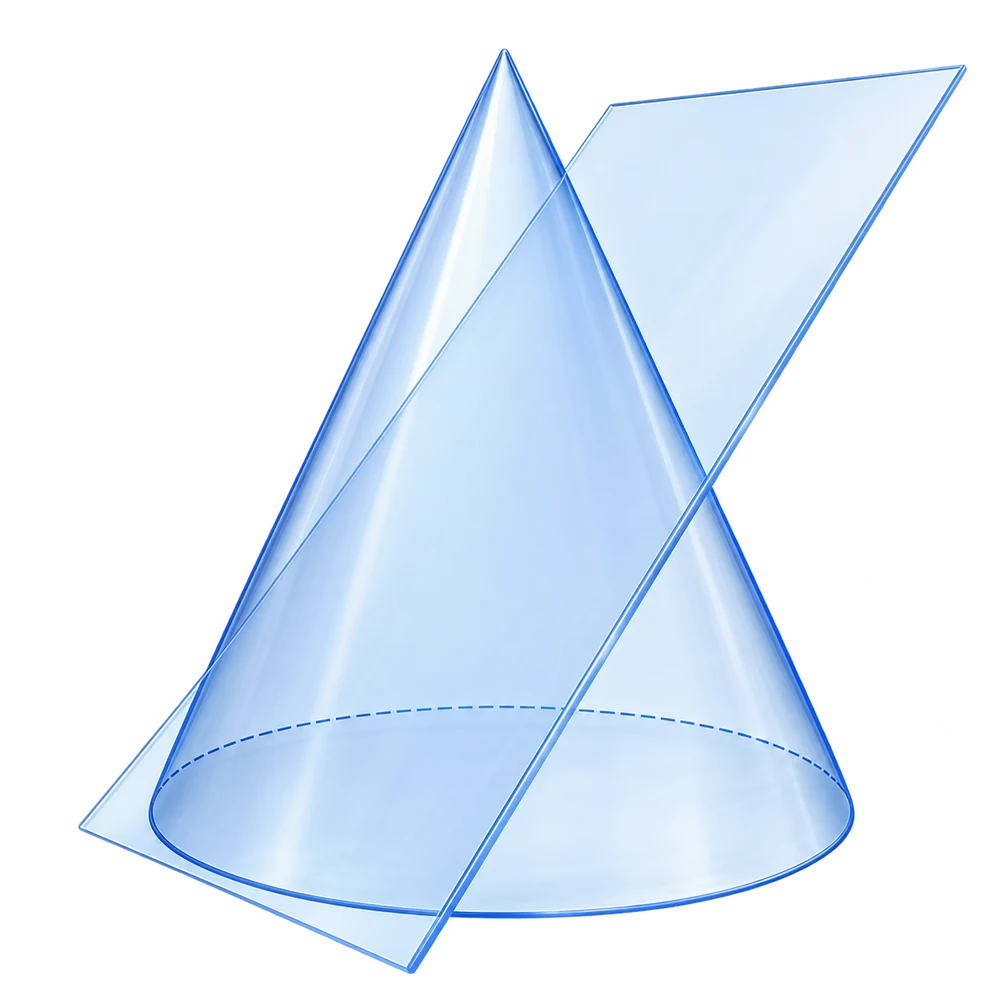
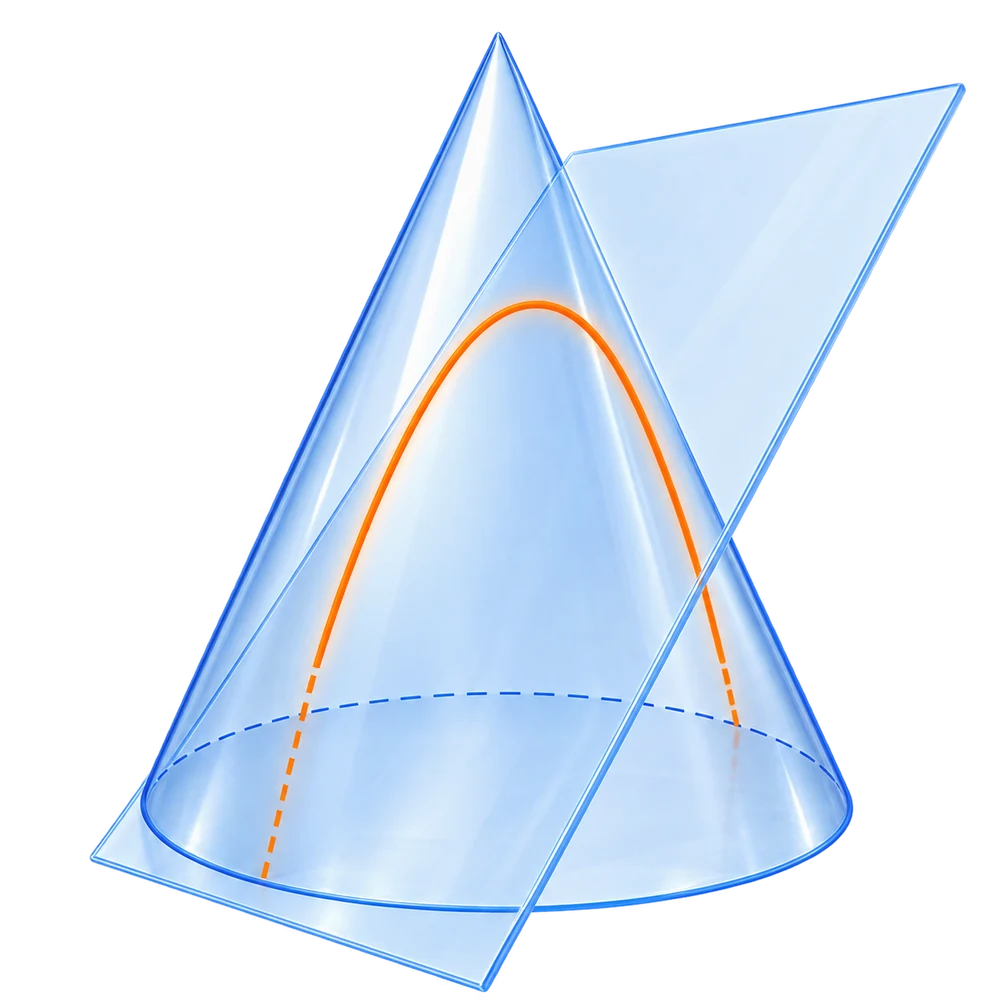
Баннер «Немного истории»: кривая на самой картинке (итог ff6b392a и 8c5757d2 из #76)
Claude-Session: https://claude.ai/code/session_01U7HawzRhaDqmctvxJSDC3E

Changed region(s): [[0.062, 0.031, 0.992, 0.992], [0.837, 0.775, 0.868, 0.837]]

diff --git a/app/src/components/tasks/theory/quadratic/IstoriyaBanner.tsx b/app/src/components/tasks/theory/quadratic/IstoriyaBanner.tsx
@@ -9,31 +9,21 @@ import { katex } from '@/lib/graph/katex';
  * конус, рассечённый плоскостью. Оба портрета повёрнуты к центру —
  * поэтому местами их менять нельзя, зеркалить тоже.
  *
- * Кривой сечения на картинке нет намеренно: её рисует SVG поверх
- * картинки, чтобы геометрия была верной. Подписи от руки — текст
- * рукописным шрифтом, а не картинка.
+ * Конус с секущей плоскостью и параболой сечения — картинка: кривая
+ * нарисована на ней самой, поверх неё ничего не рисуется. Подписи от
+ * руки — текст рукописным шрифтом, а не картинка.
  */
 
-/* Сечение конуса плоскостью, параллельной образующей, — парабола.
-   Координаты в системе самой картинки (1254 × 1254): плоскость взята
-   та же, что нарисована, и подогнана по двум её приметам — точке, где
-   она режет правую образующую у вершины, и точке, где выходит через
-   основание. Проекция параболы — снова парабола, поэтому каждый кусок
-   дуги точно ложится на квадратичную кривую Безье; расхождение
-   с настоящим сечением меньше двух единиц из 1254, то есть доли
-   пикселя на экране.
-
-   Первый кусок идёт по передней половине конуса и виден, второй
-   уходит за конус — он штриховой. */
-const SECHENIE = {
-  vidno: 'M 560.4 1142.4 Q 743.8 344.3 699 210.1',
-  skryto: 'M 699 210.1 Q 640.2 34 188 1002.2',
-};
 
 /** Стрелка от подписи к тому, что она подписывает. */
-function Strelka({ d, ostriyo }: { d: string; ostriyo: string }) {
+function Strelka({ d, ostriyo, className }: { d: string; ostriyo: string; className?: string }) {
   return (
-    <svg className="istor__strelka" viewBox="0 0 120 120" aria-hidden="true" focusable="false">
+    <svg
+      className={className === undefined ? 'istor__strelka' : `istor__strelka ${className}`}
+      viewBox="0 0 120 120"
+      aria-hidden="true"
+      focusable="false"
+    >
       <path d={d} />
       <path d={ostriyo} />
     </svg>
@@ -68,19 +58,14 @@ export function IstoriyaBanner() {
             width={istoriya.konus.width}
             height={istoriya.konus.height}
           />
-          {/* Сечение: система координат — сама картинка, поэтому кривая
-              держится на конусе при любой ширине. Толщина линии не
-              тянется вместе с картинкой: она задана в пикселях экрана,
-              как у линий чертежей движка. */}
-          <svg
-            className="istor__sechenie"
-            viewBox="0 0 1254 1254"
-            aria-hidden="true"
-            focusable="false"
-          >
-            <path className="istor__krivaya" d={SECHENIE.vidno} />
-            <path className="istor__krivaya istor__krivaya--za" d={SECHENIE.skryto} />
-          </svg>
+          {/* Стрелка подписи живёт внутри картинки и меряется в её
+              долях: остриё должно упираться в саму кривую сечения,
+              а кривая нарисована на картинке и едет вместе с ней. */}
+          <Strelka
+            className="istor__strelka--konus"
+            d="M 8 24 C 44 36 72 56 92 84"
+            ostriyo="M 80 80 L 94 88 L 88 74"
+          />
         </div>
 
         <figure className="istor__lico istor__lico--sovremennyy">
@@ -104,10 +89,7 @@ export function IstoriyaBanner() {
         <Strelka d="M 10 20 C 45 35 70 60 86 88" ostriyo="M 74 84 L 88 92 L 82 78" />
       </span>
 
-      <span className="istor__zametka istor__zametka--konus">
-        {istoriya.zametki.konus}
-        <Strelka d="M 8 24 C 44 36 72 56 92 84" ostriyo="M 80 80 L 94 88 L 88 74" />
-      </span>
+      <span className="istor__zametka istor__zametka--konus">{istoriya.zametki.konus}</span>
 
       <span className="istor__zametka istor__zametka--sprava">
         {istoriya.zametki.sprava}

diff --git a/app/src/app/zadaniya/[task]/[type]/topic.css b/app/src/app/zadaniya/[task]/[type]/topic.css
@@ -800,9 +800,7 @@ a.tutor-card:hover {
   /* Строка ломается пополам, а не оставляет одно слово внизу. */
   text-wrap: balance;
 }
-/* Конус: картинка и кривая сечения поверх неё. Кривая живёт в системе
-   координат самой картинки, поэтому при любой ширине остаётся на
-   своём месте. */
+/* Конус: картинка, на которой кривая сечения уже нарисована. */
 .istor__konus {
   position: relative;
   justify-self: center;
@@ -813,25 +811,6 @@ a.tutor-card:hover {
   display: block;
   width: 100%;
   height: auto;
-}
-.istor__sechenie {
-  position: absolute;
-  inset: 0;
-  width: 100%;
-  height: 100%;
-}
-/* Толщина линии сечения — как у графика на чертежах движка, 3,2
-   пикселя экрана: при масштабировании картинки она не тянется. */
-.istor__krivaya {
-  fill: none;
-  stroke: var(--color-accent);
-  stroke-width: 3.2;
-  stroke-linecap: round;
-  vector-effect: non-scaling-stroke;
-}
-/* Часть кривой, уходящая за конус. */
-.istor__krivaya--za {
-  stroke-dasharray: 7 6;
 }
 /* Формула над правым портретом: набрана KaTeX, а не от руки. */
 /* Формула стоит над правым портретом, как на макете. */
@@ -860,7 +839,10 @@ a.tutor-card:hover {
   height: 60px;
   fill: none;
   stroke: var(--color-primary);
-  stroke-width: 3;
+  /* Толщина в пикселях экрана: стрелки разной длины, и без этого
+     длинная стрелка у конуса выходила заметно жирнее коротких. */
+  stroke-width: 2;
+  vector-effect: non-scaling-stroke;
   stroke-linecap: round;
   stroke-linejoin: round;
 }
@@ -880,6 +862,17 @@ a.tutor-card:hover {
 }
 .istor__zametka--sprava .istor__strelka {
   margin-left: auto;
+}
+/* Стрелка у конуса показывает на саму кривую сечения, поэтому она
+   лежит внутри картинки и меряется в её долях: остриё приходит в одну
+   и ту же точку рисунка при любой ширине. */
+.istor__strelka--konus {
+  position: absolute;
+  left: 4.7%;
+  top: 11.7%;
+  width: 45%;
+  height: auto;
+  aspect-ratio: 1;
 }
 
 /* Узкий баннер: так он выглядит и на телефоне, и на 1024, где рядом
@@ -915,7 +908,7 @@ a.tutor-card:hover {
     margin-top: var(--space-4);
     text-align: center;
   }
-  .istor__zametka--konus .istor__strelka {
+  .istor__strelka--konus {
     display: none;
   }
 }

diff --git a/app/src/content/theoryQuadratic.ts b/app/src/content/theoryQuadratic.ts
@@ -501,7 +501,7 @@ export const istoriya = {
     src: '/images/theory/12/cone-parabola.webp',
     width: 1000,
     height: 1000,
-    alt: 'Конус, рассечённый плоскостью: в сечении парабола',
+    alt: 'Конус, рассечённый плоскостью: в сечении — парабола',
   },
 } as const;
 
